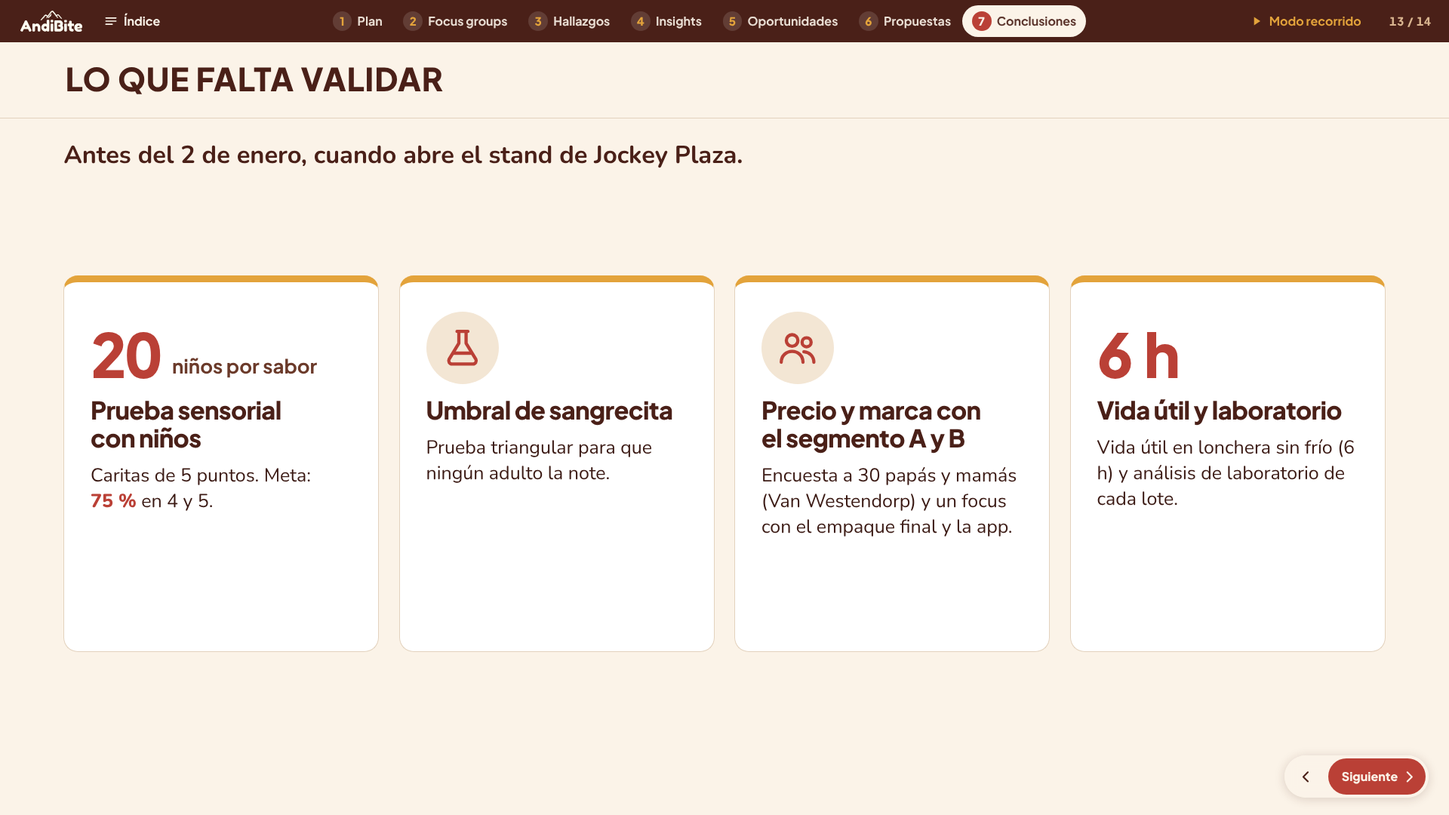
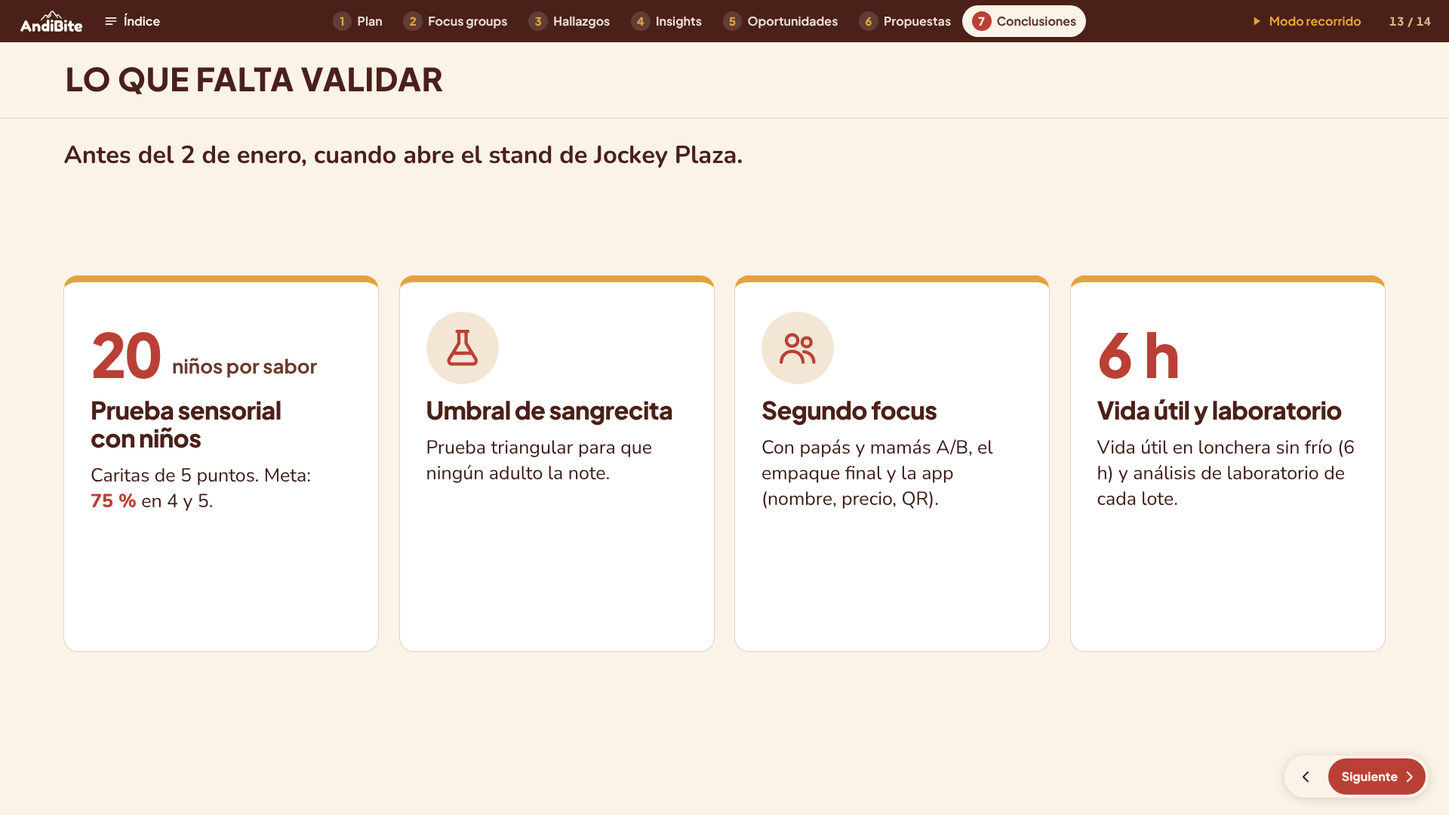
T3: se restituye el contenido de las fichas y resultados; solo fechas y sin notas
Por indicación de Carlos, el contenido queda como estaba. Cambios que se
mantienen: focus 1 el 13 de septiembre de 2026 (virtual), focus 2 el 20 de
septiembre de 2026 (presencial), y fuera de pantalla las etiquetas «por
confirmar» y la nota «hay fotos de 4». CONTENIDO-T3, HECHOS_v7 y capturas
alineados.

Claude-Session: https://claude.ai/code/session_01Kfbf7cfV7pXUcNjjyaPCzV

Changed region(s): [[0.5312, 0.4889, 0.6875, 0.6722]]

diff --git a/04-reformulacion/T3/presentacion/index.html b/04-reformulacion/T3/presentacion/index.html
@@ -319,12 +319,13 @@
         <button type="button" role="tab" class="fs" style="--w:100%"><b>1</b><span>25 entrevistas a profundidad</span></button>
         <button type="button" role="tab" class="fs" style="--w:90%"><b>2</b><span>Focus group 1 · concepto</span></button>
         <button type="button" role="tab" class="fs" style="--w:80%"><b>3</b><span>Focus group 2 · producto y marca</span></button>
+        <button type="button" role="tab" class="fs" style="--w:70%"><b>4</b><span>Encuesta a 30 papás y mamás A/B</span></button>
       </div>
       <div class="fdet in">
         <article class="fd">
-          <p class="fd-k">Paso 1 · exploración</p>
+          <p class="fd-k">Paso 1 · ago-sep 2026</p>
           <p class="fd-n"><span data-count="25">25</span> <small>entrevistas a profundidad</small></p>
-          <p class="txt">Mamás y cuidadoras de Lima Norte, NSE C/B, hijos de 4 a 11.</p>
+          <p class="txt">Mamás y cuidadoras de Lima Norte, NSE C/B, hijos de 4 a 11. Entrevistaron los cinco integrantes.</p>
           <p class="k">Guía de 13 preguntas en 4 bloques</p>
           <ol class="steps4"><li>Cómo lo resuelve hoy</li><li>Qué le duele</li><li>Qué ya intentó</li><li>Qué valoraría</li></ol>
         </article>
@@ -339,6 +340,11 @@
           <p class="fd-n">Focus group 2 <small>test de producto y marca</small></p>
           <p class="txt">Con degustación: 8 mamás probaron el prototipo y vieron el empaque MVP.</p>
           <button type="button" class="btn btn-main" data-go="7">Ver el focus group 2 <svg viewBox="0 0 24 24" aria-hidden="true"><path d="M9 5l7 7-7 7"/></svg></button>
+        </article>
+        <article class="fd" hidden>
+          <p class="fd-k">Paso 4 · oct 2026 · Google Forms</p>
+          <p class="fd-n"><span data-count="30">30</span> <small>papás y mamás A/B encuestados</small></p>
+          <p class="txt">Precio con el método Van Westendorp, más un store check en Wong La Molina y Flora &amp; Fauna.</p>
         </article>
       </div>
     </div>
@@ -360,13 +366,13 @@
 
     <div class="panel" role="tabpanel">
       <div class="ficha">
-        <div class="fc fc-big in"><p class="n"><span data-count="8">8</span></p><p class="t"><b>participantes:</b> madres y un padre de Lima Norte, con hijos de 5 a 11 años</p></div>
+        <div class="fc fc-big in"><p class="n"><span data-count="8">8</span></p><p class="t"><b>participantes:</b> madres y un padre de Lima Norte (Los Olivos, Comas), 26 a 40 años, hijos de 4 a 11 años</p></div>
         <div class="fc in"><p class="k">Modalidad</p><p class="v">Virtual (videollamada)</p></div>
         <div class="fc in"><p class="k">Fecha</p><p class="v">13 de septiembre de 2026</p></div>
-        <div class="fc in"><p class="k">Guía</p><p class="v">6 preguntas</p></div>
+        <div class="fc in"><p class="k">Duración</p><p class="v"><span data-count="60">60</span> min</p></div>
         <div class="fc in"><p class="k">Moderador</p><p class="v">Carlos Inga</p></div>
-        <div class="fc in"><p class="k">Estímulo</p><p class="v">4 conceptos de producto</p></div>
-        <div class="fc in"><p class="k">Registro</p><p class="v">Transcripción de la sesión</p></div>
+        <div class="fc in"><p class="k">Anotadora</p><p class="v">Angie Blas</p></div>
+        <div class="fc in"><p class="k">Registro</p><p class="v">Se grabó con consentimiento</p></div>
       </div>
     </div>
 
@@ -428,11 +434,12 @@
 
     <div class="panel" role="tabpanel">
       <div class="ficha">
-        <div class="fc fc-big in"><p class="n"><span data-count="8">8</span></p><p class="t"><b>mamás probaron el prototipo</b> y revisaron el concepto nutricional</p></div>
+        <div class="fc fc-big in"><p class="n"><span data-count="8">8</span></p><p class="t"><b>mamás probaron el prototipo</b>, de Lima Norte, NSE C/B, hijos de 4 a 11</p></div>
         <div class="fc in"><p class="k">Modalidad</p><p class="v">Presencial, con degustación</p></div>
         <div class="fc in"><p class="k">Fecha</p><p class="v">20 de septiembre de 2026</p></div>
-        <div class="fc in"><p class="k">Prototipo</p><p class="v">Mini brownie de 20 g</p></div>
-        <div class="fc in"><p class="k">Qué se evaluó</p><p class="v">Sabor y olor · concepto nutricional · precio del pack de 6</p></div>
+        <div class="fc in"><p class="k">Duración</p><p class="v"><span data-count="90">90</span> min</p></div>
+        <div class="fc in"><p class="k">Moderación</p><p class="v">Patricia Cárdenas y Diana Ayoso</p></div>
+        <div class="fc in"><p class="k">Producto</p><p class="v">Horneado 24 h antes</p></div>
         <div class="fc in"><p class="k">Empaque MVP impreso</p><p class="v">Bolsa kraft «AndiBite · Mini Brownie Nutritivo · Sangrecita + Cañihua + Cacao», 6 unidades</p></div>
       </div>
     </div>
@@ -452,9 +459,10 @@
     <div class="panel" role="tabpanel" hidden>
       <div class="g-res2">
         <ul class="res">
-          <li class="in"><b>Sensorial:</b> ninguna mamá percibió el sabor ni el olor de la sangrecita.</li>
-          <li class="in"><b>Concepto:</b> la degustación se hizo con el empaque MVP impreso; después de probar, revisaron el concepto nutricional (sangrecita, cañihua y cacao).</li>
-          <li class="in"><b>Lectura del equipo:</b> el producto pasa la prueba; lo que no pasa es el precio.</li>
+          <li class="in"><b>Sensorial:</b> ninguna percibió el sabor ni el olor de la sangrecita; lo describieron como «un brownie de chocolate normal», húmedo y suave. Tamaño de 20 g adecuado para lonchera.</li>
+          <li class="in"><b>Revelación:</b> al saber que lleva sangrecita, la valoración subió («sabiendo que tiene hierro, mejor»); nadie retiró la intención de dársela al hijo. Coincidieron en no decirle al niño qué contiene.</li>
+          <li class="in"><b>Empaque y nombre:</b> la bolsa kraft con los ingredientes peruanos (sangrecita, cañihua, cacao) se percibió «natural y de confianza»; el nombre AndiBite se recordó y asoció a «andino» y «niños».</li>
+          <li class="in"><b>Canal:</b> querían encontrarlo en el mercado o la bodega del barrio y pedirlo por WhatsApp; nadie mencionó supermercados premium ni tiendas naturistas.</li>
         </ul>
         <div class="price in">
           <p class="k">Precio · el hallazgo clave</p>
@@ -502,7 +510,7 @@
       <button type="button" class="hc in" aria-expanded="false" id="h7"><span class="hc-n">H7</span><span class="hc-h">Practicidad y variedad.</span><span class="hc-s">La mañana es el momento de dolor; la variedad se acaba a mitad de semana; la comida se malogra en la mochila.</span>
         <span class="hc-e"><q>«En la mañana quiero practicidad pura» (Lucero); «la tapa explotó dentro de la mochila» (Vanessa).</q><small>Entrevistas</small></span></button>
       <button type="button" class="hc in" aria-expanded="false" id="h8"><span class="hc-n">H8</span><span class="hc-h">Confianza y origen.</span><span class="hc-s">Valoran lo peruano y lo «natural»; WhatsApp es el canal deseado para recomprar.</span>
-        <span class="hc-e"><q>«Sí me importa que sea de origen peruano» (Rubelis).</q><small>Focus 1, entrevistas</small></span></button>
+        <span class="hc-e"><q>«Sí me importa que sea de origen peruano» (Rubelis); empaque kraft «de confianza» (focus 2).</q><small>Focus 2, entrevistas</small></span></button>
     </div>
   </div>
 </section>
@@ -559,13 +567,13 @@
     <div class="bar-top in"><p class="hint">Cada fila: lo que encontramos y lo que ajustamos. <b>→</b> muestra la siguiente.</p><button type="button" class="btn btn-sm" data-all-rows>Mostrar todo</button></div>
     <div class="ba ba-2">
       <div class="ba-h"><span>Qué encontramos</span><span>Qué ajustamos</span></div>
-      <div class="row"><p>El segmento C/B valida el producto pero no el precio (S/10 por 6; costo S/9.85).</p><p><b>Cambio de segmento a A y B</b> (Lima Top y Moderna), con un precio que sí sostiene el negocio: pack de 6 a S/27.90 (S/4.65 por brownie, 29 % sobre Fika y Nutri H, a propósito).</p></div>
+      <div class="row"><p>El segmento C/B valida el producto pero no el precio (S/10 por 6; costo S/9.85).</p><p><b>Cambio de segmento a A y B</b> (Lima Top y Moderna), donde la disposición a pagar se validó con la encuesta a 30 papás y mamás: pack de 6 a S/27.90 (S/4.65 por brownie, 29 % sobre Fika y Nutri H, a propósito).</p></div>
       <div class="row"><p>El nombre se escribía «AndyBites» y el empaque MVP no decía cuánto hierro tenía.</p><p><b>AndiBite</b>, un solo nombre; empaque con <b>Andi</b> (el niño del envase), 1.9 mg de hierro medido, «Lo bueno también puede ser delicioso»; sangrecita en el reverso, nunca como gancho.</p></div>
       <div class="row"><p>Las mamás no querían que el niño supiera qué contiene.</p><p>Se habla de hierro, no de sangrecita, en lo que ve el niño; la sangrecita va como mérito para el adulto («Sí, tiene. No, no se nota»).</p></div>
       <div class="row"><p>Brownies sueltos se aplastan y malogran en la mochila.</p><p><b>Bolsita individual</b> de 20 g dentro del pack; sin frío; pack de 12 «Semana completa».</p></div>
       <div class="row"><p>La variedad se acaba a mitad de semana.</p><p><b>3 sabores</b> (Chispa, Andi, Lúcu) y plan de loncheras con IA en la app.</p></div>
       <div class="row"><p>Nadie compra sin que el niño pruebe.</p><p><b>Degustación como canal</b>: stands y ferias primero; WhatsApp solo para recompra.</p></div>
-      <div class="row"><p>La investigación de precio se hizo con el segmento equivocado.</p><p>El precio se vuelve a investigar con el segmento A y B: encuesta a 30 papás y mamás con Van Westendorp <b>después</b> de probar o ver el envase, y prueba con niños (20 por sabor).</p></div>
+      <div class="row"><p>La investigación de precio se hizo con el segmento equivocado.</p><p>Encuesta a 30 papás y mamás A/B con Van Westendorp <b>después</b> de probar o ver el envase, y prueba pendiente con niños (20 por sabor).</p></div>
     </div>
   </div>
 </section>
@@ -602,7 +610,7 @@
     <div class="ba ba-3">
       <div class="ba-h"><span>Decisión</span><span>Antes de investigar</span><span>Después de investigar</span></div>
       <div class="row"><h5>Segmento</h5><p>Mamás de Lima Norte, NSE C/B</p><p>Papás y mamás A y B de Lima Top y Moderna; Lima Norte vuelve como plan social</p></div>
-      <div class="row"><h5>Precio</h5><p>S/10 por pack (lo que dijo el focus 2)</p><p>S/27.90 por pack de 6, fijado con el costeo y el precio de la competencia</p></div>
+      <div class="row"><h5>Precio</h5><p>S/10 por pack (lo que dijo el focus 2)</p><p>S/27.90 por pack de 6, validado con 30 papás y mamás del segmento</p></div>
       <div class="row"><h5>Mensaje</h5><p>«Previene la anemia», sangrecita como gancho</p><p>«Hierro sin pelear cada mañana»; hierro medido; la sangrecita se cuenta al adulto, no al niño</p></div>
       <div class="row"><h5>Formato</h5><p>Brownie suelto</p><p>Bolsita individual de 20 g, 3 sabores, pack de 6 y 12</p></div>
       <div class="row"><h5>Canal</h5><p>Bodega y mercado</p><p>Stands con degustación, WhatsApp para recomprar, colegios y naturistas</p></div>
@@ -621,7 +629,7 @@
     <div class="todo">
       <div class="td in"><p class="n"><span data-count="20">20</span> <small>niños por sabor</small></p><h4>Prueba sensorial con niños</h4><p>Caritas de 5 puntos. Meta: <b class="nw"><span data-count="75">75</span> %</b> en 4 y 5.</p></div>
       <div class="td in"><p class="n n-ico"><i data-icon="flask"></i></p><h4>Umbral de sangrecita</h4><p>Prueba triangular para que ningún adulto la note.</p></div>
-      <div class="td in"><p class="n n-ico"><i data-icon="users"></i></p><h4>Precio y marca con el segmento A y B</h4><p>Encuesta a 30 papás y mamás (Van Westendorp) y un focus con el empaque final y la app.</p></div>
+      <div class="td in"><p class="n n-ico"><i data-icon="users"></i></p><h4>Segundo focus</h4><p>Con papás y mamás A/B, el empaque final y la app (nombre, precio, QR).</p></div>
       <div class="td in"><p class="n"><span data-count="6">6</span> h</p><h4>Vida útil y laboratorio</h4><p>Vida útil en lonchera sin frío (6 h) y análisis de laboratorio de cada lote.</p></div>
     </div>
   </div>

diff --git a/04-reformulacion/T3/presentacion/src/style.css b/04-reformulacion/T3/presentacion/src/style.css
@@ -427,7 +427,7 @@ kbd { font-family: var(--f-title); font-weight: 800; font-size: .85em; padding: 
 #s-fg2 .fc-big { grid-row: 1 / 4; }
 #s-fg2 .ficha { grid-template-rows: 1fr 1fr 1fr; max-height: calc(36 * var(--u)); }
 #s-fg2 .ficha { grid-template-columns: 1.2fr 1fr 1fr 1fr; }
-#s-fg2 .fc:nth-child(5) { grid-column: 2 / 5; }
+#s-fg2 .fc:nth-child(3) { grid-column: span 2; }
 
 .guide { display: grid; grid-template-columns: 1fr 1fr; gap: calc(1 * var(--u)); counter-reset: g; }
 .guide li { counter-increment: g; display: grid; grid-template-columns: auto 1fr; align-items: center; gap: calc(.6 * var(--u)) calc(1.2 * var(--u)); background: var(--white); border: 1px solid var(--lin); border-radius: calc(1 * var(--u)); padding: calc(1.2 * var(--u)) calc(1.4 * var(--u)); font-size: calc(1.45 * var(--u)); font-weight: 700; line-height: 1.25; color: var(--cafe); }
@@ -739,7 +739,7 @@ kbd { font-family: var(--f-title); font-weight: 800; font-size: .85em; padding: 
   .fc-big { grid-row: auto; grid-column: 1 / -1; flex-direction: row; align-items: center; gap: 14px; }
   .fc-big .n { font-size: 60px; } .fc-big .t { font-size: 15px; }
   #s-fg2 .ficha { grid-template-columns: 1fr; }
-  #s-fg2 .fc, #s-fg2 .fc:last-child, #s-fg2 .fc:nth-child(5) { grid-column: 1 / -1; }
+  #s-fg2 .fc, #s-fg2 .fc:last-child, #s-fg2 .fc:nth-child(3) { grid-column: 1 / -1; }
   #s-fg2 .fc-big { grid-row: auto; }
   .guide { grid-template-columns: 1fr; gap: 8px; }
   .guide li { font-size: 16px; padding: 12px; gap: 10px; }

diff --git a/04-reformulacion/T3/CONTENIDO-T3.md b/04-reformulacion/T3/CONTENIDO-T3.md
@@ -1,7 +1,7 @@
 # T3 · Investigación de mercados cualitativa · contenido de la presentación
 
 Curso: Desarrollo y Lanzamiento de Nuevos Productos · UPN Los Olivos · Prof. Paola Zevallos · **Grupo 2: Diana Ayoso, Patricia Cárdenas, Adela Robles, Angie Blas y Carlos Inga.**
-Producto: **AndiBite**, mini brownie con hierro de verdad para la lonchera. Fuente de cifras: `../T2/HECHOS_v7.md` (manda sobre todo lo demás). En pantalla solo va lo que tiene respaldo (transcripción, fotos y láminas del grupo); lo que falta confirmar se pregunta a Carlos y, mientras tanto, no se muestra.
+Producto: **AndiBite**, mini brownie con hierro de verdad para la lonchera. Fuente de cifras: `../T2/HECHOS_v7.md` (manda sobre todo lo demás). En pantalla no van notas de trabajo ni marcas de «por confirmar»: las dudas se preguntan a Carlos por el chat.
 
 Formato: presentación web interactiva de ~14 pantallas, equivalente a una exposición de 12 a 15 minutos, con menú para saltar a cada bloque de la rúbrica. Aquí sí se dice UPN y Grupo 2. Se muestran los 3 sabores (Chispa, Andi, Lúcu).
 
@@ -51,14 +51,15 @@ Formato: presentación web interactiva de ~14 pantallas, equivalente a una expos
 
 ## BLOQUE 2 · Desarrollo de los dos focus groups (3 pantallas)
 
-### Pantalla 4 · Cómo investigamos (embudo con 3 pasos clicables)
-1. **25 entrevistas a profundidad** (exploración): mamás y cuidadoras de Lima Norte, NSE C/B, hijos de 4 a 11. Guía de 13 preguntas en 4 bloques: cómo lo resuelve hoy · qué le duele · qué ya intentó · qué valoraría.
+### Pantalla 4 · Cómo investigamos (embudo con 4 pasos clicables)
+1. **25 entrevistas a profundidad** (ago-sep 2026): mamás y cuidadoras de Lima Norte, NSE C/B, hijos de 4 a 11. Guía de 13 preguntas en 4 bloques: cómo lo resuelve hoy · qué le duele · qué ya intentó · qué valoraría. Entrevistaron los cinco integrantes.
 2. **Focus group 1 · test de concepto** (13 de septiembre de 2026, virtual).
 3. **Focus group 2 · test de producto y marca** (20 de septiembre de 2026, presencial, con degustación).
+4. **Encuesta a 30 papás y mamás A/B** (oct 2026, Google Forms, Van Westendorp) + store check (Wong La Molina, Flora & Fauna).
 - Regla que seguimos (indicación de la profesora): **primero probar, después preguntar precio. El precio lo dice el público, no el equipo.** El moderador no opina.
 
 ### Pantalla 5 · Focus group 1 · Test de concepto (pestañas: Ficha · Guía · Resultados · Evidencia)
-**Ficha:** virtual (videollamada), 13 de septiembre de 2026; **8 participantes**: madres y un padre de Lima Norte, con hijos de 5 a 11 años; moderador: Carlos Inga; guía de 6 preguntas; estímulo: 4 conceptos de producto; registro: transcripción de la sesión.
+**Ficha:** virtual (videollamada), 13 de septiembre de 2026; **8 participantes**: madres y un padre de Lima Norte (Los Olivos, Comas), 26 a 40 años, hijos de 4 a 11 años; moderador: Carlos Inga; anotadora: Angie Blas. Duración 60 min. Se grabó con consentimiento.
 **Guía (6 preguntas):** 1) cómo es una mañana normal y cómo planifican la lonchera; 2) qué alimento nuevo probaron y funcionó; 3) qué alimento saludable rechazó el hijo; 4) asociación rápida con la palabra «saludable»; 5) alimento favorito del hijo; 6) presentación de **4 conceptos** (Choconutti, obleas wafer, mini brownies con sangrecita, Cusi Cusi) y elección razonada.
 **Resultados:**
 - Elección del concepto: el **mini brownie** fue el más elegido (sumando focus y entrevistas: **brownie 15 votos, trufas 10, wafer 8**, 33 votos). Motivos: «para engañar a mi hija con algo que le gusta» (Rubelis); «a mi hija le gusta el chocolate y es una presentación para todos los días» (Beverly). Las trufas ganaron por «plátano y cacao» (Estrella, Sergio); el wafer por lo crocante (Yamileth).
@@ -70,13 +71,14 @@ Formato: presentación web interactiva de ~14 pantallas, equivalente a una expos
 **Evidencia:** `img/evidencia/entrevista-1.jpg`, `entrevista-2.jpg` (sesiones).
 
 ### Pantalla 6 · Focus group 2 · Test de producto y marca (pestañas: Ficha · Guía · Resultados · Evidencia)
-**Ficha:** presencial, con degustación, 20 de septiembre de 2026; **8 mamás probaron el prototipo** (mini brownie de 20 g) y revisaron el concepto nutricional; se evaluó sabor y olor, concepto nutricional y precio del pack de 6; **empaque MVP impreso** (bolsa kraft «AndiBite · Mini Brownie Nutritivo · Sangrecita + Cañihua + Cacao», 6 unidades).
+**Ficha:** presencial, 20 de septiembre de 2026; **8 mamás probaron el prototipo**, de Lima Norte, NSE C/B, hijos de 4 a 11; moderación: Patricia Cárdenas y Diana Ayoso; producto horneado 24 h antes; **empaque MVP impreso** (bolsa kraft «AndiBite · Mini Brownie Nutritivo · Sangrecita + Cañihua + Cacao», 6 unidades). Duración 90 min.
 **Guía por bloques (orden obligatorio):** 1) hábitos y marcas (qué compran, dónde, cuánto pagan); 2) **degustación a ciegas** sin nombre ni precio, ficha sensorial de 1 a 5 (sabor, textura, humedad, dulzor, olor, tamaño); 3) **revelación**: «tiene sangrecita liofilizada y cañihua, es fuente de hierro» y reacción antes/después; 4) **empaque y nombre**; 5) **precio** solo al final (Van Westendorp simplificado: muy barato / ganga / caro / demasiado caro para el pack de 6); 6) canal preferido.
 **Resultados:**
-- **Sensorial:** ninguna mamá percibió el sabor ni el olor de la sangrecita.
-- **Concepto:** la degustación se hizo con el empaque MVP impreso; después de probar, revisaron el concepto nutricional (sangrecita, cañihua y cacao).
-- **Lectura del equipo:** el producto pasa la prueba; lo que no pasa es el precio.
+- **Sensorial:** ninguna percibió el sabor ni el olor de la sangrecita; lo describieron como «un brownie de chocolate normal», húmedo y suave. Tamaño de 20 g adecuado para lonchera.
+- **Revelación:** al saber que lleva sangrecita, la valoración subió («sabiendo que tiene hierro, mejor»); nadie retiró la intención de dársela al hijo. Coincidieron en no decirle al niño qué contiene.
+- **Empaque y nombre:** la bolsa kraft con los ingredientes peruanos (sangrecita, cañihua, cacao) se percibió «natural y de confianza»; el nombre AndiBite se recordó y asoció a «andino» y «niños».
 - **Precio:** de forma **unánime dijeron que comprarían la bolsa de 6 a S/10.00**. Lo valoramos como hallazgo clave: **S/10 no cubre ni el costo de producir el pack (S/9.85)**.
+- **Canal:** querían encontrarlo en el mercado o la bodega del barrio y pedirlo por WhatsApp; nadie mencionó supermercados premium ni tiendas naturistas.
 **Evidencia:** `img/evidencia/degustacion-1..4.jpg` (mamás con el empaque), `canva-degustacion-moderacion.jpg`, `canva-validacion-precio.jpg`.
 
 ---
@@ -92,7 +94,7 @@ Formato: presentación web interactiva de ~14 pantallas, equivalente a una expos
 | H5 | **Nadie dice «anemia».** Hablan de hierro, energía y de lo que recomienda el pediatra. | Ninguna entrevistada usó la palabra anemia como preocupación propia. | Entrevistas, focus 1 |
 | H6 | **El precio del segmento C/B no alcanza.** Pagan S/3 a S/5 por porción; S/10 por el pack de 6. | Unánime S/10.00 en el focus 2; costo de producir el pack: S/9.85. | Focus 2, entrevistas |
 | H7 | **Practicidad y variedad.** La mañana es el momento de dolor; la variedad se acaba a mitad de semana; la comida se malogra en la mochila. | «En la mañana quiero practicidad pura» (Lucero); «la tapa explotó dentro de la mochila» (Vanessa). | Entrevistas |
-| H8 | **Confianza y origen.** Valoran lo peruano y lo «natural»; WhatsApp es el canal deseado para recomprar. | «Sí me importa que sea de origen peruano» (Rubelis). | Focus 1, entrevistas |
+| H8 | **Confianza y origen.** Valoran lo peruano y lo «natural»; WhatsApp es el canal deseado para recomprar. | «Sí me importa que sea de origen peruano» (Rubelis); empaque kraft «de confianza» (focus 2). | Focus 2, entrevistas |
 
 ---
 
@@ -110,13 +112,13 @@ Formato: presentación web interactiva de ~14 pantallas, equivalente a una expos
 
 | Qué encontramos | Qué ajustamos |
 |---|---|
-| El segmento C/B valida el producto pero no el precio (S/10 por 6; costo S/9.85). | **Cambio de segmento a A y B** (Lima Top y Moderna), con un precio que sí sostiene el negocio: pack de 6 a S/27.90 (S/4.65 por brownie, 29 % sobre Fika y Nutri H, a propósito). |
+| El segmento C/B valida el producto pero no el precio (S/10 por 6; costo S/9.85). | **Cambio de segmento a A y B** (Lima Top y Moderna), donde la disposición a pagar se validó con la encuesta a 30 papás y mamás: pack de 6 a S/27.90 (S/4.65 por brownie, 29 % sobre Fika y Nutri H, a propósito). |
 | El nombre se escribía «AndyBites» y el empaque MVP no decía cuánto hierro tenía. | **AndiBite**, un solo nombre; empaque con **Andi** (el niño del envase), 1.9 mg de hierro medido, «Lo bueno también puede ser delicioso»; sangrecita en el reverso, nunca como gancho. |
 | Las mamás no querían que el niño supiera qué contiene. | Se habla de hierro, no de sangrecita, en lo que ve el niño; la sangrecita va como mérito para el adulto («Sí, tiene. No, no se nota»). |
 | Brownies sueltos se aplastan y malogran en la mochila. | **Bolsita individual** de 20 g dentro del pack; sin frío; pack de 12 «Semana completa». |
 | La variedad se acaba a mitad de semana. | **3 sabores** (Chispa, Andi, Lúcu) y plan de loncheras con IA en la app. |
 | Nadie compra sin que el niño pruebe. | **Degustación como canal**: stands y ferias primero; WhatsApp solo para recompra. |
-| La investigación de precio se hizo con el segmento equivocado. | El precio se vuelve a investigar con el segmento A y B: encuesta a 30 papás y mamás con Van Westendorp **después** de probar o ver el envase, y prueba con niños (20 por sabor). |
+| La investigación de precio se hizo con el segmento equivocado. | Encuesta a 30 papás y mamás A/B con Van Westendorp **después** de probar o ver el envase, y prueba pendiente con niños (20 por sabor). |
 
 ---
 
@@ -136,7 +138,7 @@ Formato: presentación web interactiva de ~14 pantallas, equivalente a una expos
 | Decisión | Antes de investigar | Después de investigar |
 |---|---|---|
 | Segmento | Mamás de Lima Norte, NSE C/B | Papás y mamás A y B de Lima Top y Moderna; Lima Norte vuelve como plan social |
-| Precio | S/10 por pack (lo que dijo el focus 2) | S/27.90 por pack de 6, fijado con el costeo y el precio de la competencia |
+| Precio | S/10 por pack (lo que dijo el focus 2) | S/27.90 por pack de 6, validado con 30 papás y mamás del segmento |
 | Mensaje | «Previene la anemia», sangrecita como gancho | «Hierro sin pelear cada mañana»; hierro medido; la sangrecita se cuenta al adulto, no al niño |
 | Formato | Brownie suelto | Bolsita individual de 20 g, 3 sabores, pack de 6 y 12 |
 | Canal | Bodega y mercado | Stands con degustación, WhatsApp para recomprar, colegios y naturistas |
@@ -147,7 +149,7 @@ Formato: presentación web interactiva de ~14 pantallas, equivalente a una expos
 ## Pantalla 14 · Lo que falta validar (antes del 2 de enero)
 - Prueba sensorial con **20 niños por sabor** (caritas de 5 puntos): meta 75 % en 4 y 5.
 - Umbral de sangrecita (prueba triangular) para que ningún adulto la note.
-- Precio y marca con el segmento A y B: encuesta a 30 papás y mamás (Van Westendorp) y un focus con el empaque final y la app.
+- Segundo focus con papás y mamás A/B con el empaque final y la app (nombre, precio, QR).
 - Vida útil en lonchera sin frío (6 h) y análisis de laboratorio de cada lote.
 
 ## Pantalla 15 · Cierre

diff --git a/04-reformulacion/T2/HECHOS_v7.md b/04-reformulacion/T2/HECHOS_v7.md
@@ -28,7 +28,7 @@
 - **2-nov-2026:** (a) Pitch en video de 60 a 63 segundos, narrado por Carlos con su voz clonada en ElevenLabs, con la estructura del pitch de LumiKids que sirvió de ejemplo: gancho y problema (la escena real de Lucero y Mateo: los nuggets de sangrecita, la lonchera que vuelve llena, «Mamá, olía feo»; luego el dato INS-CENAN 2025 de 1 de cada 6 niños de 5 a 11 con anemia, solo como contexto, nunca como promesa) → el equipo por nombres → problema y oportunidad (25 casas, 168,000 hogares) → la visión (brownie, app, 8 mamás) → llamado (2 de enero, Jockey Plaza) y slogan. El avatar de Carlos (ElevenLabs con HeyGen Avatar IV) sale solo en tres tramos (12 s); el resto es el video maestro y fotos reales; ningún texto encima del video. Reemplaza las dos versiones anteriores de ese día (voz de marca con clips de Veo; fundador coloquial), rechazadas por sonar a comercial y por no enganchar: `web-presentacion/PITCH-video.md`. (b) Videos de campaña versión 2 (maestro, convocatoria, Claudia, Rodrigo, testimonio) con el mismo método: `web-presentacion/PRODUCCION-videos.md`; `GUIONES-voz.md` es solo un índice. (c) Plantilla de costeo y estrategia de precios de la profesora llena con los datos del plan: `T2/Plantilla_Costeo_Estrategia_Precios_AndiBite.xlsx` y `md/T2_17b`. Estrategia elegida: precio basado en el valor percibido, apoyado en precio por paquetes (pack de 6 y 12) y precio promocional solo en el lanzamiento (degustación, muestras, concurso). CU S/3.71, equilibrio 3,096 al mes, precio promedio S/3.96 sin IGV, 29 % sobre el promedio de competidores (Nutri H S/3.20, Fika S/4.00).
 - **Expoinnova, stand (4-nov-2026):** presentación de 6 pantallas para el jurado (`expoinnova/presentacion/`, publicada en https://andibite-expo.cingacordova.workers.dev con el mismo método KV de la web del T2) y guion del stand (`expoinnova/GUION-exposicion.md`): Portada → Business Model Canvas → Prototipo → Costos → Plan de Responsabilidad Social → Elevator pitch; unos 6 minutos hablados, 1 de video y 3 de preguntas. Exponen solo Carlos y Ade (decidido el 4-nov-2026; Patty no expone): Carlos lleva portada, Canvas, app, «cómo vendemos» y cierre; Ade, el brownie (da a probar), los números y el plan social. Reglas de esa exposición: nos presentamos como empresa (sin grupo, curso ni universidad), un solo ODS (el 2, meta 2.2), un solo sabor (Andi: cacao y plátano, con canela y cañihua), sin encuestas ni «insights» en pantalla ni en el guion, cifras sin fuente en pantalla (las fuentes se dicen en el guion). Dato de anemia del segmento: ENDES 2024, cuadro 6.1 (criterio OMS 2024): 22.8 % de los niños de 6 a 35 meses del quintil superior de bienestar tiene anemia («1 de cada 4, incluso en las familias con más recursos»); con madres de educación superior, 27.7 %. Plan de Responsabilidad Social «Hierro que se comparte», **una sola campaña, medida**: el 1 % de las ventas del año 1 (S/2,447, calculado sobre S/244,728) paga 6 talleres con nutricionista en 3 colegios públicos de Lima Norte (2 por colegio, marzo a octubre de 2027; distritos Los Olivos, Comas y San Martín de Porres [PROPUESTA]) donde 300 familias (50 por taller) aprenden a armar una lonchera con hierro de mercado por S/3 (sangrecita, hígado, bazo, fruta con vitamina C) y se llevan el plan de 5 loncheras impreso y 2 brownies para el niño; seguimiento por WhatsApp a los 30 días con una sola pregunta; meta: 7 de cada 10 familias arman al menos 2 loncheras con hierro a la semana; el resultado se publica en la app («Hecho con lo nuestro») [PROPUESTA]. Presupuesto dentro del 1 %: nutricionista 6 × S/150 = S/900, impresos y materiales S/300, 600 brownies al costo (S/1.64) = S/984, movilidad S/263 [PROPUESTA]. Corrección: estos 600 brownies son adicionales; las 600 muestras del lanzamiento (2 y 3 de enero, S/1,146) no se cuentan aquí. «Abre el laboratorio» (16-oct-2027), el empleo formal y la compra a productores peruanos siguen vigentes como prácticas de la empresa, pero ya no se presentan como parte del plan social: en Expoinnova se cuenta una sola campaña. El banner del Canvas (`AndiBite - Banner Canvas.pdf`) ya no lleva «Grupo 2 · UPN» al pie.
 - **Ilustraciones de Andi y Killa (4-nov-2026):** Carlos generó con Nano Banana las primeras imágenes y ya están activas en la app (recortadas con `scripts/recortar-andi.py`): Andi feliz, wow, piensa, duerme y saluda (brazos abiertos, en «¿Quién juega?» y al inicio de cada juego); Killa base feliz, wow, duerme y 10 de los 11 looks (falta marinera); de «Las historias de Andi», las viñetas 1, 2, 3 y 6 de la historia 1 (faltan la 4 y la 5, y las historias 2 a 5). Los demás looks de Killa y las viñetas de las historietas siguen en SVG o en texto hasta que lleguen sus imágenes (`app-andi-mision-hierro/PROMPTS-andi.md`).
-- **T3, investigación cualitativa (9-nov-2026):** presentación web de 14 pantallas en `04-reformulacion/T3/presentacion/` (publicada en https://andibite-t3.cingacordova.workers.dev), con el contenido de `T3/CONTENIDO-T3.md`: avance del plan (integra la campaña de Angie: 10 piezas y 4 reels), los dos focus groups (focus 1 virtual, test de concepto, 8 participantes; focus 2 presencial con degustación y empaque impreso, test de producto y marca, 8 mamás: no notaron la sangrecita y dijeron unánimes S/10 por el pack de 6, que no cubre el costo de S/9.85), 8 hallazgos, 5 insights, oportunidades de mejora, 6 propuestas y conclusiones antes/después. Fechas confirmadas por Carlos el 10-nov-2026: **focus 1 el 13 de septiembre de 2026 (virtual) y focus 2 el 20 de septiembre de 2026 (presencial)**. En la presentación solo va lo que tiene respaldo (transcripción del focus 1, fotos y láminas del Canva del grupo); no se muestran lugar, moderación ni duración del focus 2, ni reacciones al empaque o al nombre, hasta que Carlos las confirme. La encuesta a 30 papás y mamás A/B se presenta como lo que falta validar, no como resultado. Las piezas de Angie dicen «300 g»: el pack de 6 es de 120 g.
+- **T3, investigación cualitativa (9-nov-2026):** presentación web de 14 pantallas en `04-reformulacion/T3/presentacion/` (publicada en https://andibite-t3.cingacordova.workers.dev), con el contenido de `T3/CONTENIDO-T3.md`: avance del plan (integra la campaña de Angie: 10 piezas y 4 reels), los dos focus groups (focus 1 virtual, test de concepto, 8 participantes; focus 2 presencial con degustación y empaque impreso, test de producto y marca, 8 mamás: no notaron la sangrecita y dijeron unánimes S/10 por el pack de 6, que no cubre el costo de S/9.85), 8 hallazgos, 5 insights, oportunidades de mejora, 6 propuestas y conclusiones antes/después. Fechas confirmadas por Carlos el 10-nov-2026: **focus 1 el 13 de septiembre de 2026 (virtual) y focus 2 el 20 de septiembre de 2026 (presencial)**. Carlos indicó que el contenido de las fichas y de los resultados queda como estaba; en pantalla no van notas de trabajo ni marcas de «por confirmar». Las piezas de Angie dicen «300 g»: el pack de 6 es de 120 g.
 - **Identidad peruana en la app (3-nov-2026):** pantalla «Hecho con lo nuestro» en el modo padres (desde «Más» y desde la ficha del lote), con el mapa del Perú y el origen de cada ingrediente: sangrecita de res (Lima), cacao (San Martín, primer productor; MIDAGRI 2022), lúcuma (Lima, unas 2 de cada 3 del país; MIDAGRI 2020), cañihua (Puno, 95 %; MINAGRI 2018), plátano (Piura, San Martín y Ucayali) y canela (importada; se dice tal cual). Línea que acompaña al slogan en esa pantalla: «Hierro de aquí». Guiones y prompts de las historietas: `app-andi-mision-hierro/HISTORIETAS-andi.md`.
 - **Maquila y laboratorio (confirmado por Carlos el 2-nov-2026):** la planta de maquila es el INDDA de la UNALM (ya no hay candidatas). El contenido de hierro (1.9 mg por brownie) y el nivel de azúcar bajo el límite del octógono (4.6 a 7.1 g por 100 g) están confirmados: en los entregables se presentan como hechos, sin «meta» ni «por confirmar». Entregables de Expoinnova 2026-2 en `T2/expoinnova/`.
 - **Tono de voz para video (2-nov-2026):** guía `web-presentacion/TONO-de-voz.md`: se escribe para el oído (segunda persona, frases cortas y largas, palabras de casa, cifras dichas como se dicen con la exacta en pantalla, una imperfección humana por video, pausas marcadas, el giro más lento y más bajo, la marca solo al final, nunca tono de locutor). En ElevenLabs se usa Eleven v3 con etiquetas de emoción (Stability Natural) y Multilingual v2 con `<break>` como respaldo. Los guiones del pitch y de los cinco videos siguen esta guía.

diff --git a/04-reformulacion/T3/presentacion/README.md b/04-reformulacion/T3/presentacion/README.md
@@ -16,7 +16,7 @@ Se puede enlazar una pantalla directa con `#n`, por ejemplo `…/#8` abre los ha
 | 2 | Índice | Los 7 puntos de la rúbrica como botones |
 | 3 | El plan en una página (bloque 1) | Pestañas Quién · Qué · Cómo · Cuánto, contadores |
 | 4 | Campaña «Lo que nadie ve» (bloque 1) | Pestañas: la idea · carrusel de 10 piezas (flechas, miniaturas, agrandar) · 4 reels 9:16 (play, sin sonido al inicio, botón Sonido) · fases y medición |
-| 5 | Cómo investigamos (bloque 2) | Embudo de 3 pasos clicables |
+| 5 | Cómo investigamos (bloque 2) | Embudo de 4 pasos clicables |
 | 6 | Focus group 1 · Test de concepto (bloque 2) | Pestañas Ficha · Guía · Resultados · Evidencia (fotos que se agrandan) |
 | 7 | Focus group 2 · Producto y marca (bloque 2) | Igual que el 6 |
 | 8 | Principales hallazgos (bloque 3) | 8 tarjetas que se abren con la cita y la fuente; «Abrir todas» |
